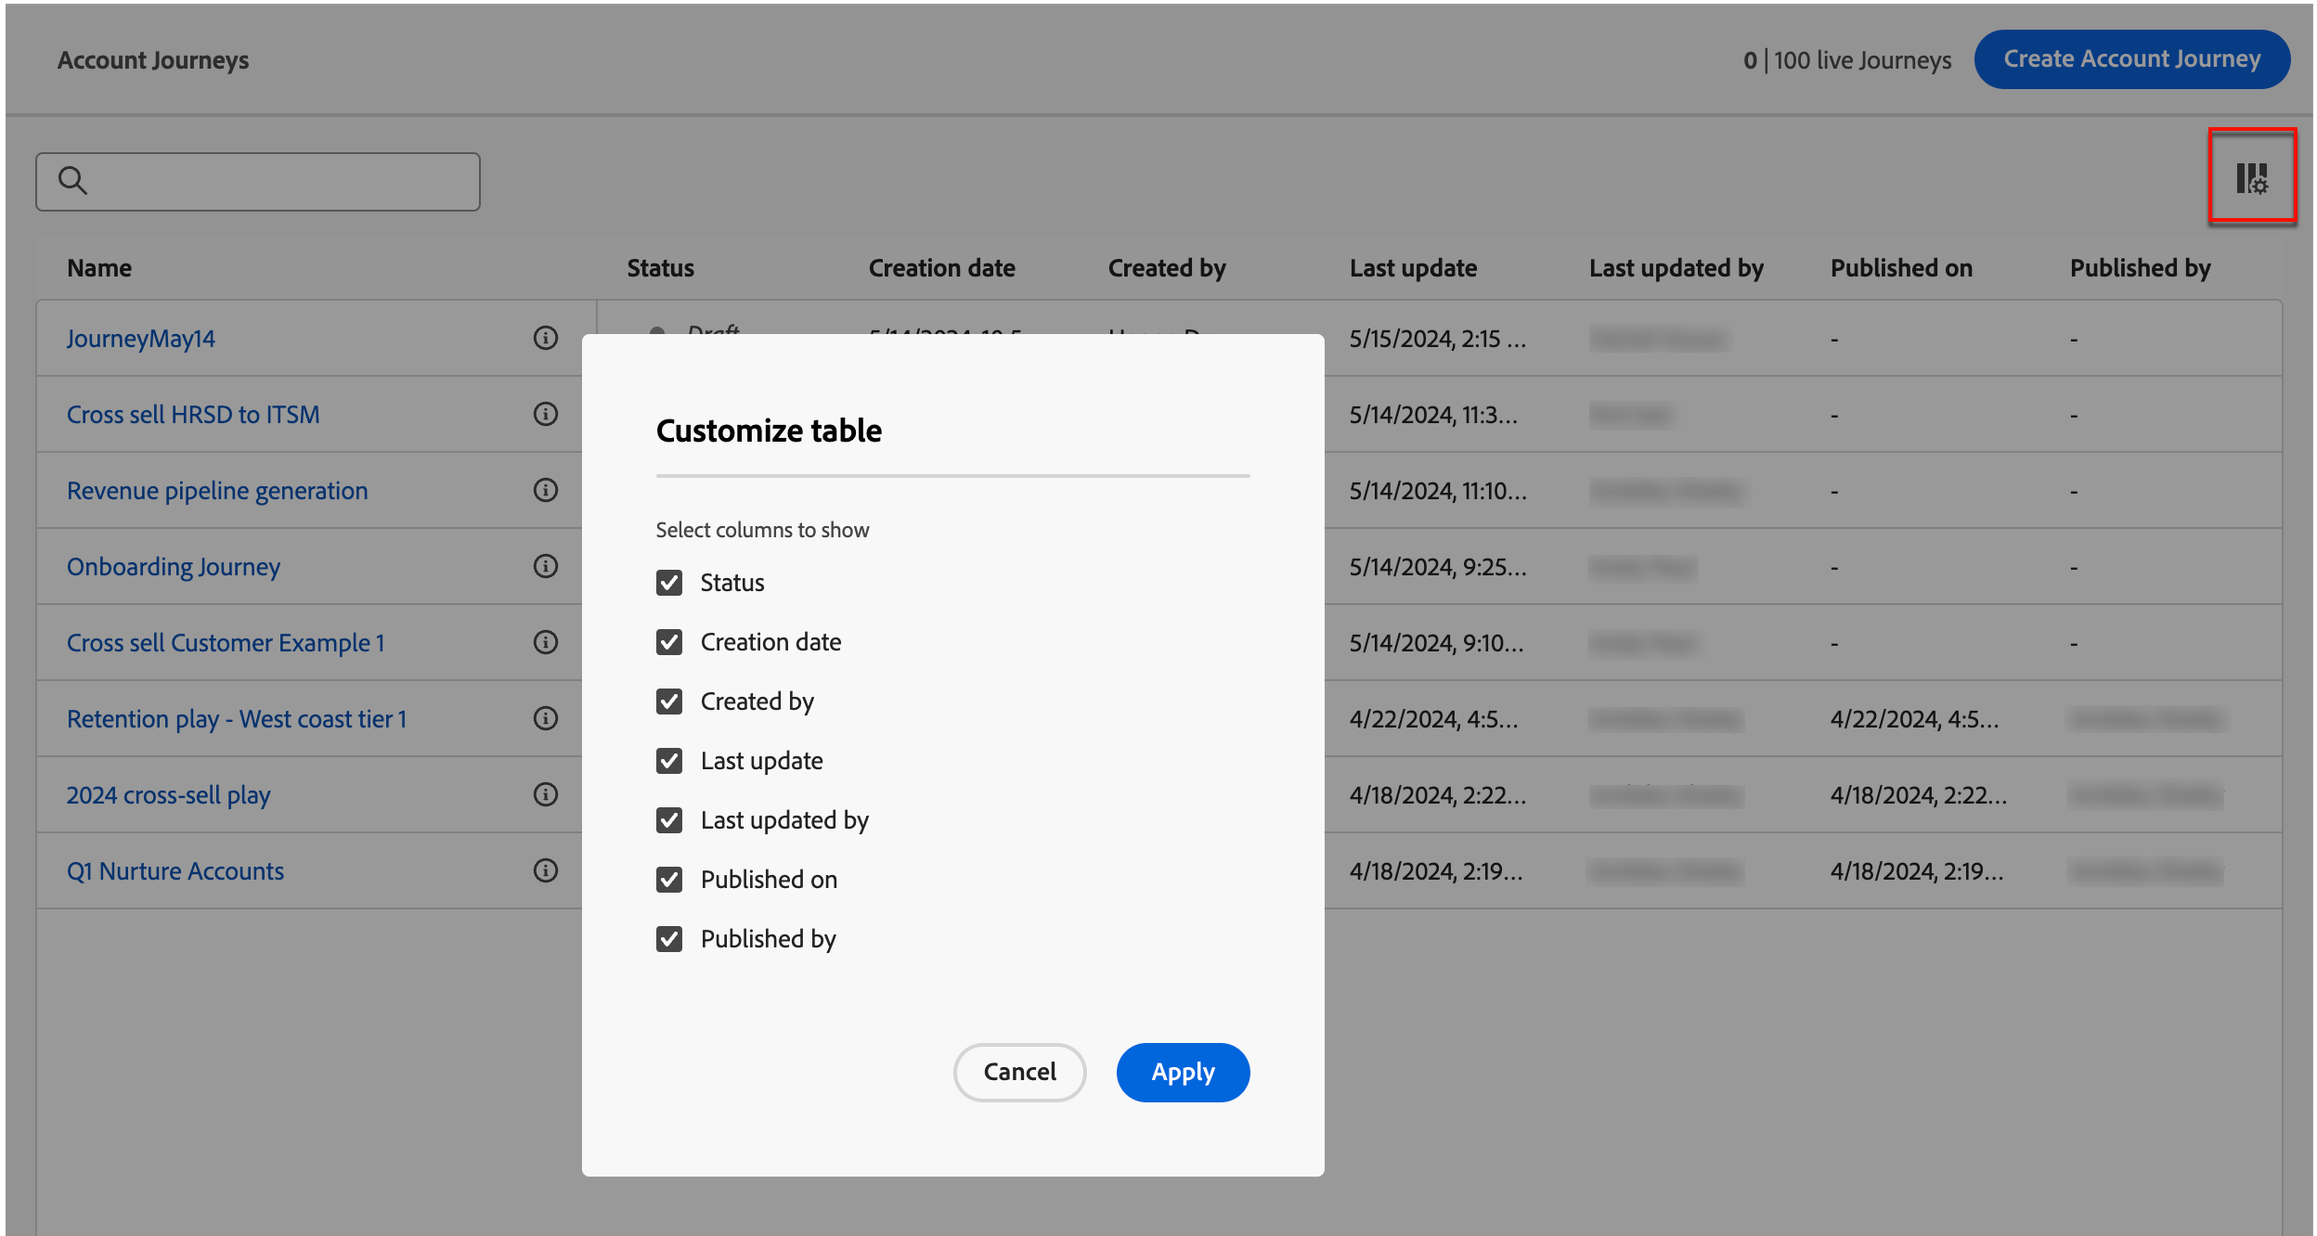
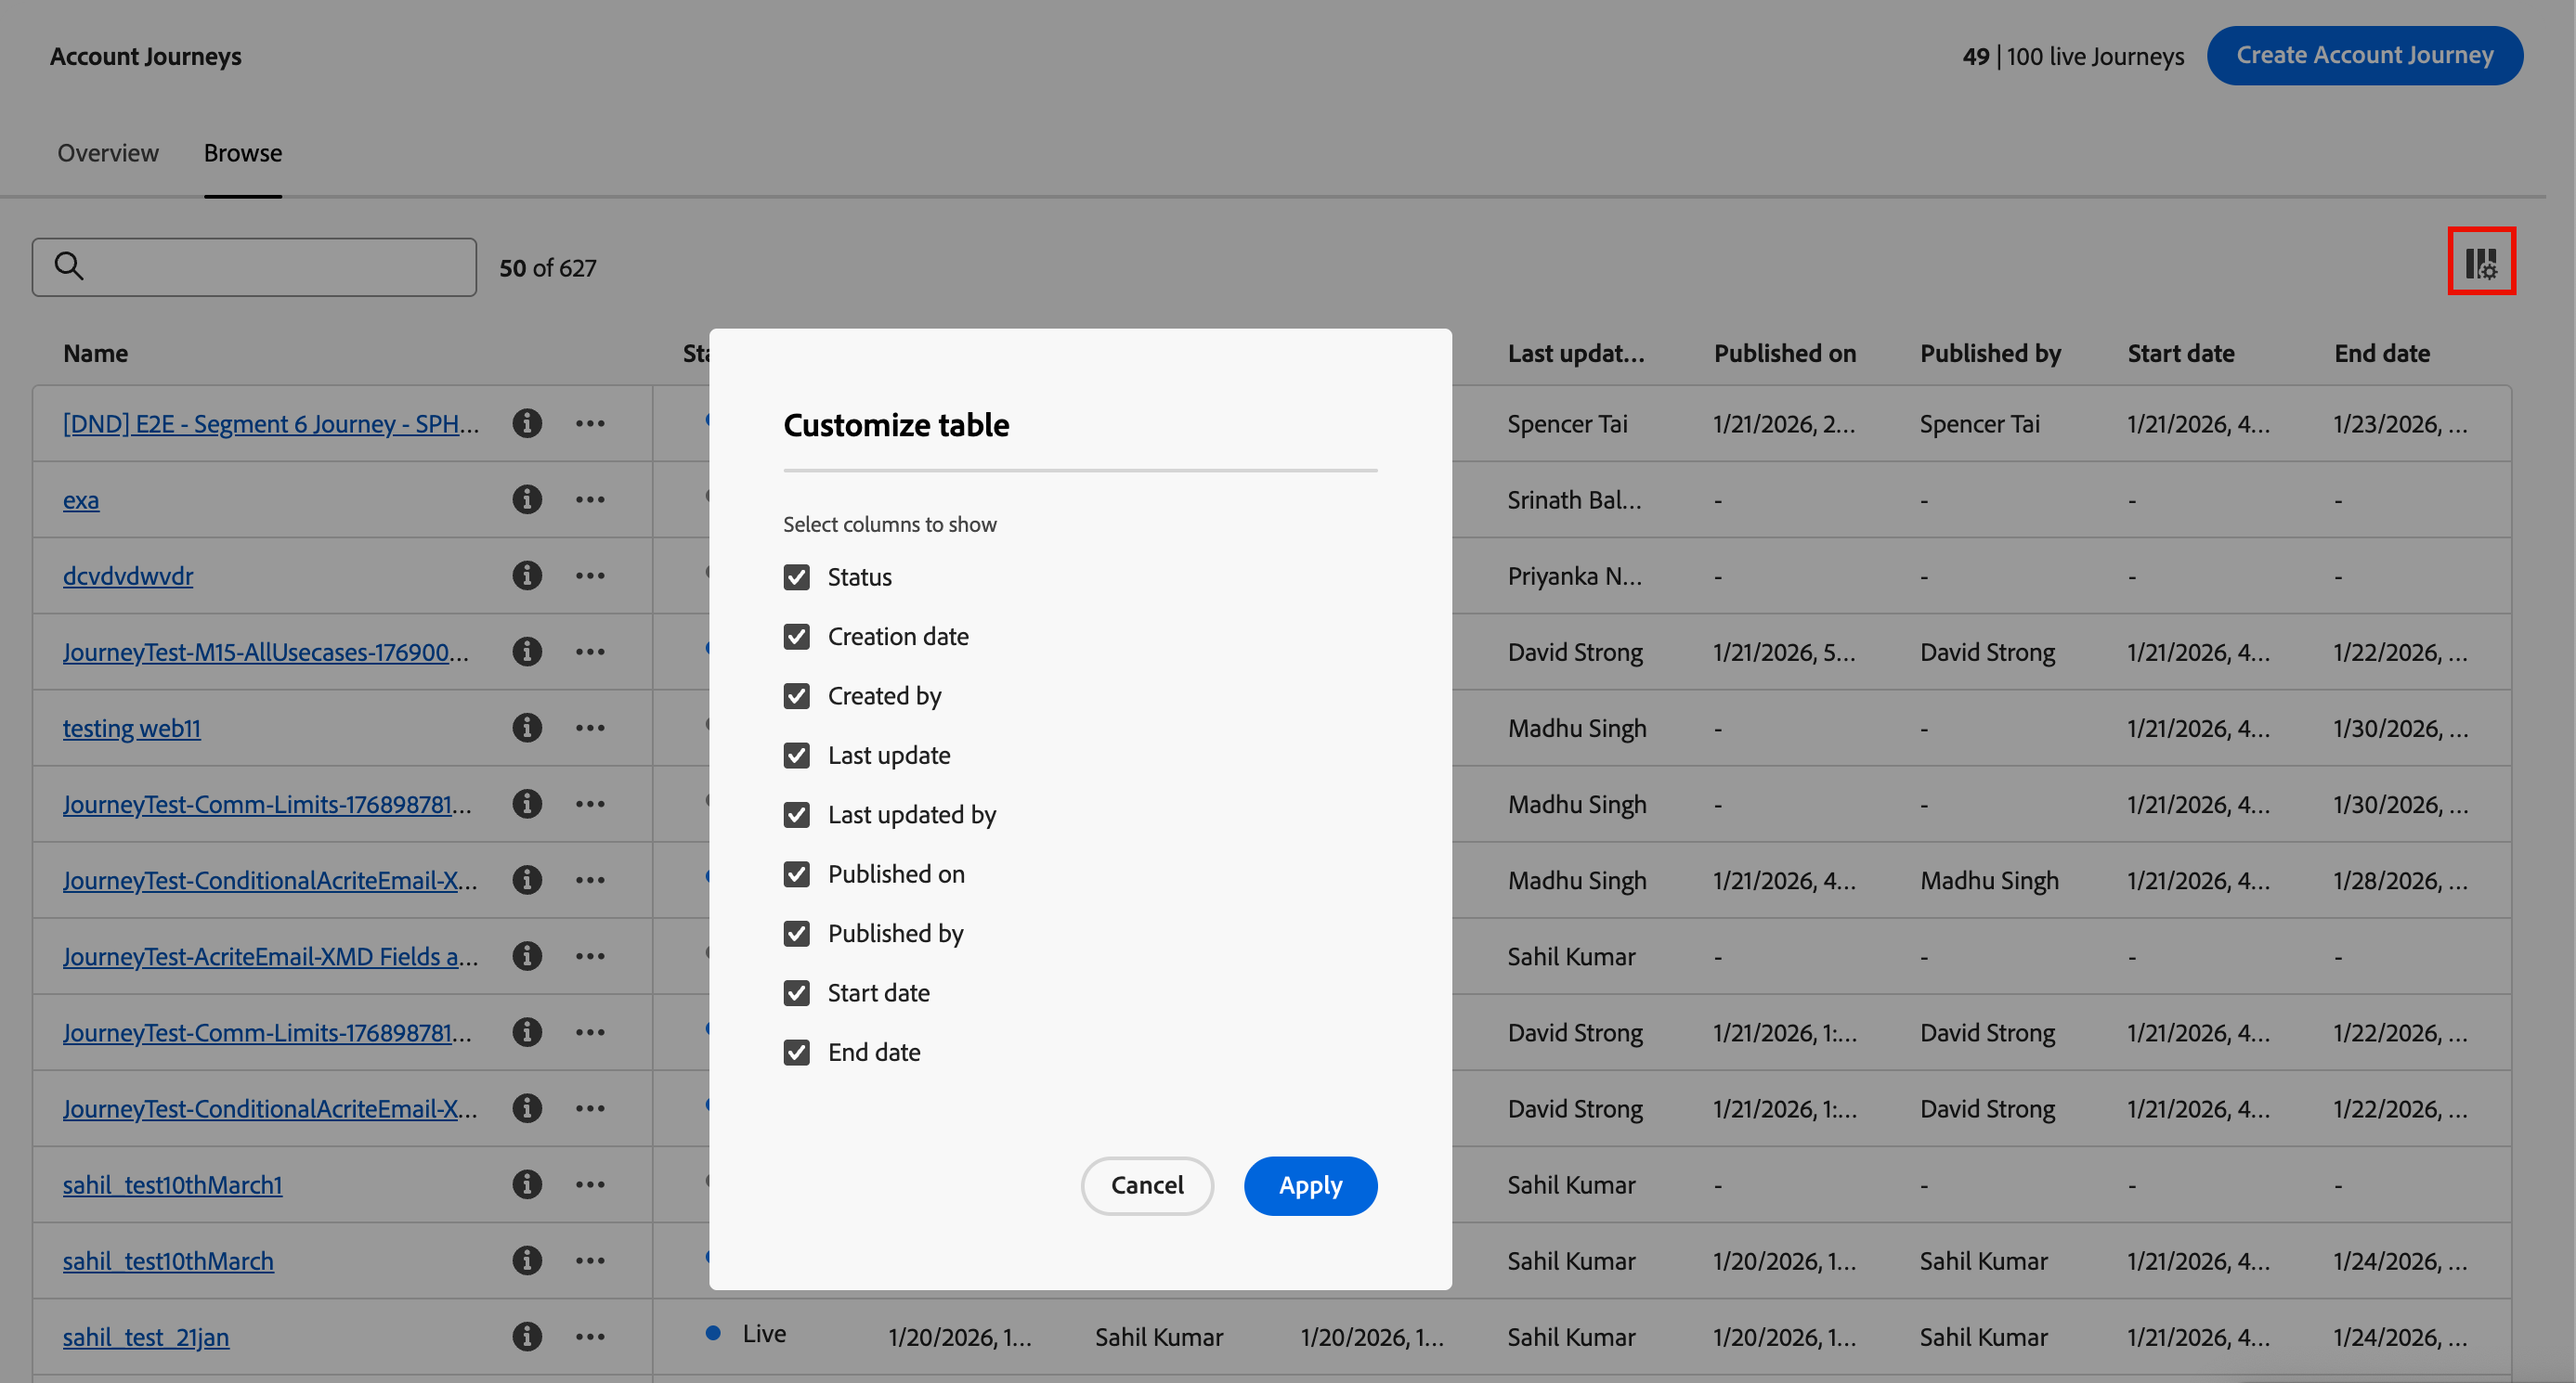
SPHR-22048, edits and adjustments, update journey list columns

diff --git a/help/user/journeys/journeys-overview.md b/help/user/journeys/journeys-overview.md
@@ -58,19 +58,6 @@ Enter text in the  _Search_ tool at the top of the list to filter the displayed 
 
 ![Filter the account journeys list](./assets/account-journeys-list-search-filter.png){width="800" zoomable="yes"}
 
-The _[!UICONTROL Account Journeys]_ list page includes the following columns:
-
-* [!UICONTROL Name] (click the name to open the journey for editing)
-* [!UICONTROL Status]
-* [!UICONTROL Description] 
-* [!UICONTROL Created by]
-* [!UICONTROL Last updated at]
-* [!UICONTROL Last updated by]
-* [!UICONTROL Published on]
-* [!UICONTROL Published by]
-
-You can sort the list by _[!UICONTROL Status]_ by clicking the column header.
-
 >[!TAB Person journeys (Beta)]
 
 [!BADGE Beta]{type=Informative tooltip="Available as a beta feature on the simplified architecture"}
@@ -79,28 +66,30 @@ On the left navigation, expand **[!UICONTROL Journey Management]** and click **[
 
 Enter text in the _Search_ tool at the top of the list to filter the displayed list by name. 
 
-![Filter the account journeys list](./assets/account-journeys-list-search-filter.png){width="800" zoomable="yes"}
-
-The _[!UICONTROL Person Journeys]_ list page includes the following columns:
-
-* [!UICONTROL Name] (click the name to open the journey for editing)
-* [!UICONTROL Status]
-* [!UICONTROL Description] 
-* [!UICONTROL Created by]
-* [!UICONTROL Last updated at]
-* [!UICONTROL Last updated by]
-* [!UICONTROL Published on]
-* [!UICONTROL Published by]
-
-You can sort the list by _[!UICONTROL Status]_ by clicking the column header.
+![Filter the person journeys list](./assets/person-journeys-list-search-filter.png){width="800" zoomable="yes"}
 
 >[!ENDTABS]
 
-### Customize column display
+### Journey list columns
 
-You can customize the columns that are displayed in the table by clicking the _Customize table_ ( ![Customize table](../assets/do-not-localize/icon-column-settings.svg) ) icon in the top-right corner. Select or clear the checkboxes in the dialog and click **[!UICONTROL Apply]**. 
+The journeys list page includes the following columns:
 
-![Choose the columns to display in the acount journeys list](./assets/account-journeys-list-columns.png){width="800" zoomable="yes"}
+* [!UICONTROL Name] (click the name to open the journey for editing)
+* [!UICONTROL Status]
+* [!UICONTROL Creation date]
+* [!UICONTROL Created by]
+* [!UICONTROL Last update]
+* [!UICONTROL Last updated by]
+* [!UICONTROL Published on]
+* [!UICONTROL Published by]
+* [!UICONTROL Start date]
+* [!UICONTROL End date]
+
+You can sort the list by _[!UICONTROL Status]_, _[!UICONTROL Creation date]_, or _[!UICONTROL Last update]_ by clicking the column header.
+
+To customize (show/hide) the columns that are displayed in the table, click the _Customize table_ ( ![Customize table](../assets/do-not-localize/icon-column-settings.svg) ) icon in the top-right corner. Select or clear the checkboxes in the dialog and click **[!UICONTROL Apply]**. 
+
+![Choose the columns to display in the journeys list](./assets/account-journeys-list-columns.png){width="800" zoomable="yes"}
 
 ### Journey status
 
@@ -112,7 +101,7 @@ The status of a journey can change based on the actions that you apply. Based on
 | _**Live**_ | Journey status changes from _Draft_ to _Live_ when a journey is published. In this state, it is no longer editable. | <li>[Duplicate](#duplicate-journey)<li>[Close to new entries](#close-to-new-entries) <li>[Abort](#abort-journey) |
 | _**Closed to new entries**_ | The journey status changes from _Live_ to _Closed to new entries_ when you click [!UICONTROL Close to new entries] in the top navigation. | <li>[Duplicate](#duplicate-journey) <li>[Abort](#abort-journey) |
 | _**Aborted**_ | Journey status changes from _Live_ or _Closed to new entries_ when you abort a journey. An aborted journey cannot be restarted. | <li>[Duplicate](#duplicate-journey) <li>[Delete](#delete-journey)  |
-| _**Finished**_ | When all accounts in a journey complete the journey, the status changes from _Live_ or _Closed to new entries_ to _Finished_.| <li>[Duplicate](#duplicate-journey) <li>[Delete](#delete-journey) |
+| _**Finished**_ | When all account or person audience members in a journey complete the journey, the status changes from _Live_ or _Closed to new entries_ to _Finished_.| <li>[Duplicate](#duplicate-journey) <li>[Delete](#delete-journey) |
 
 ## Journey maps
 
